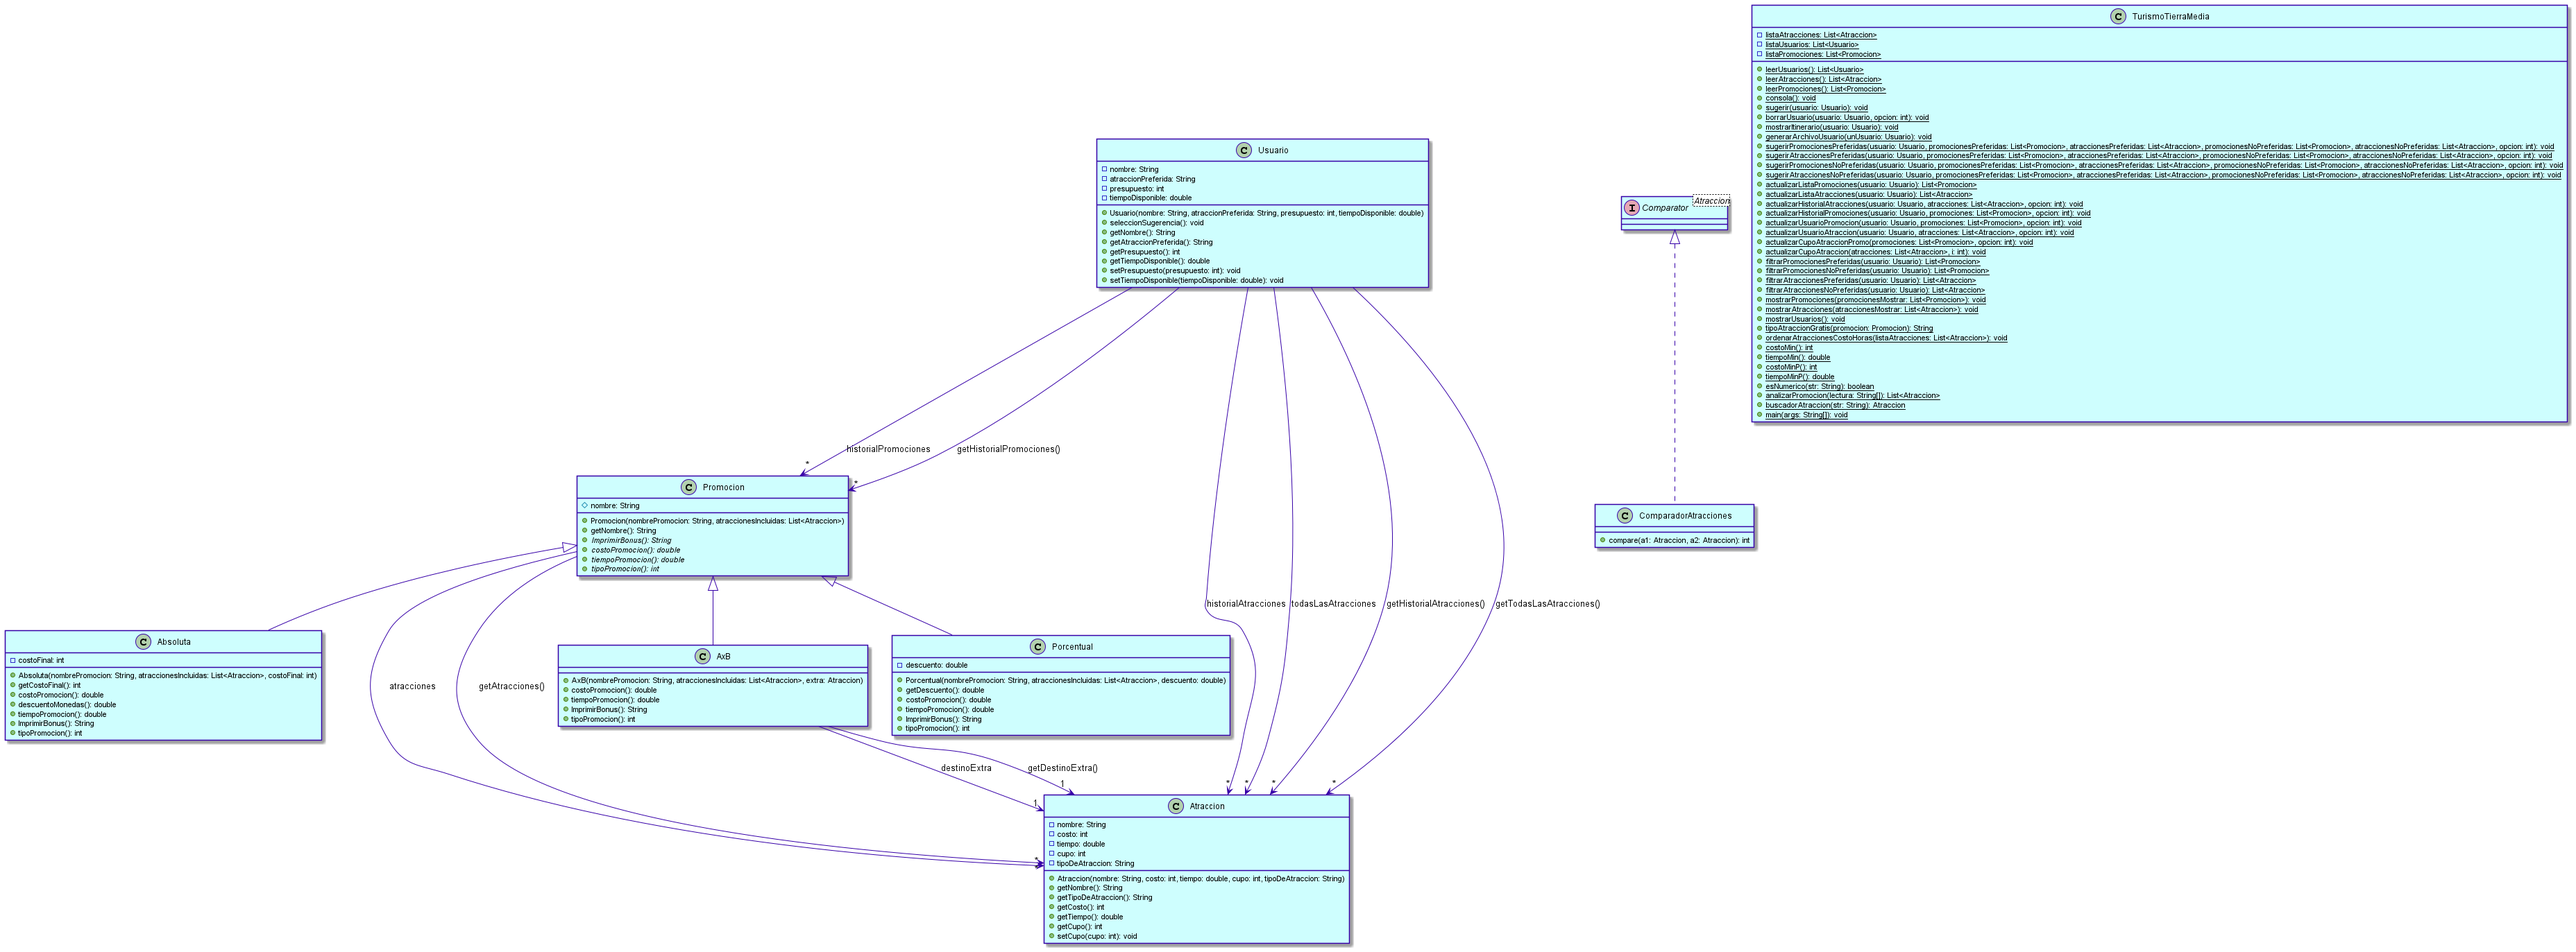
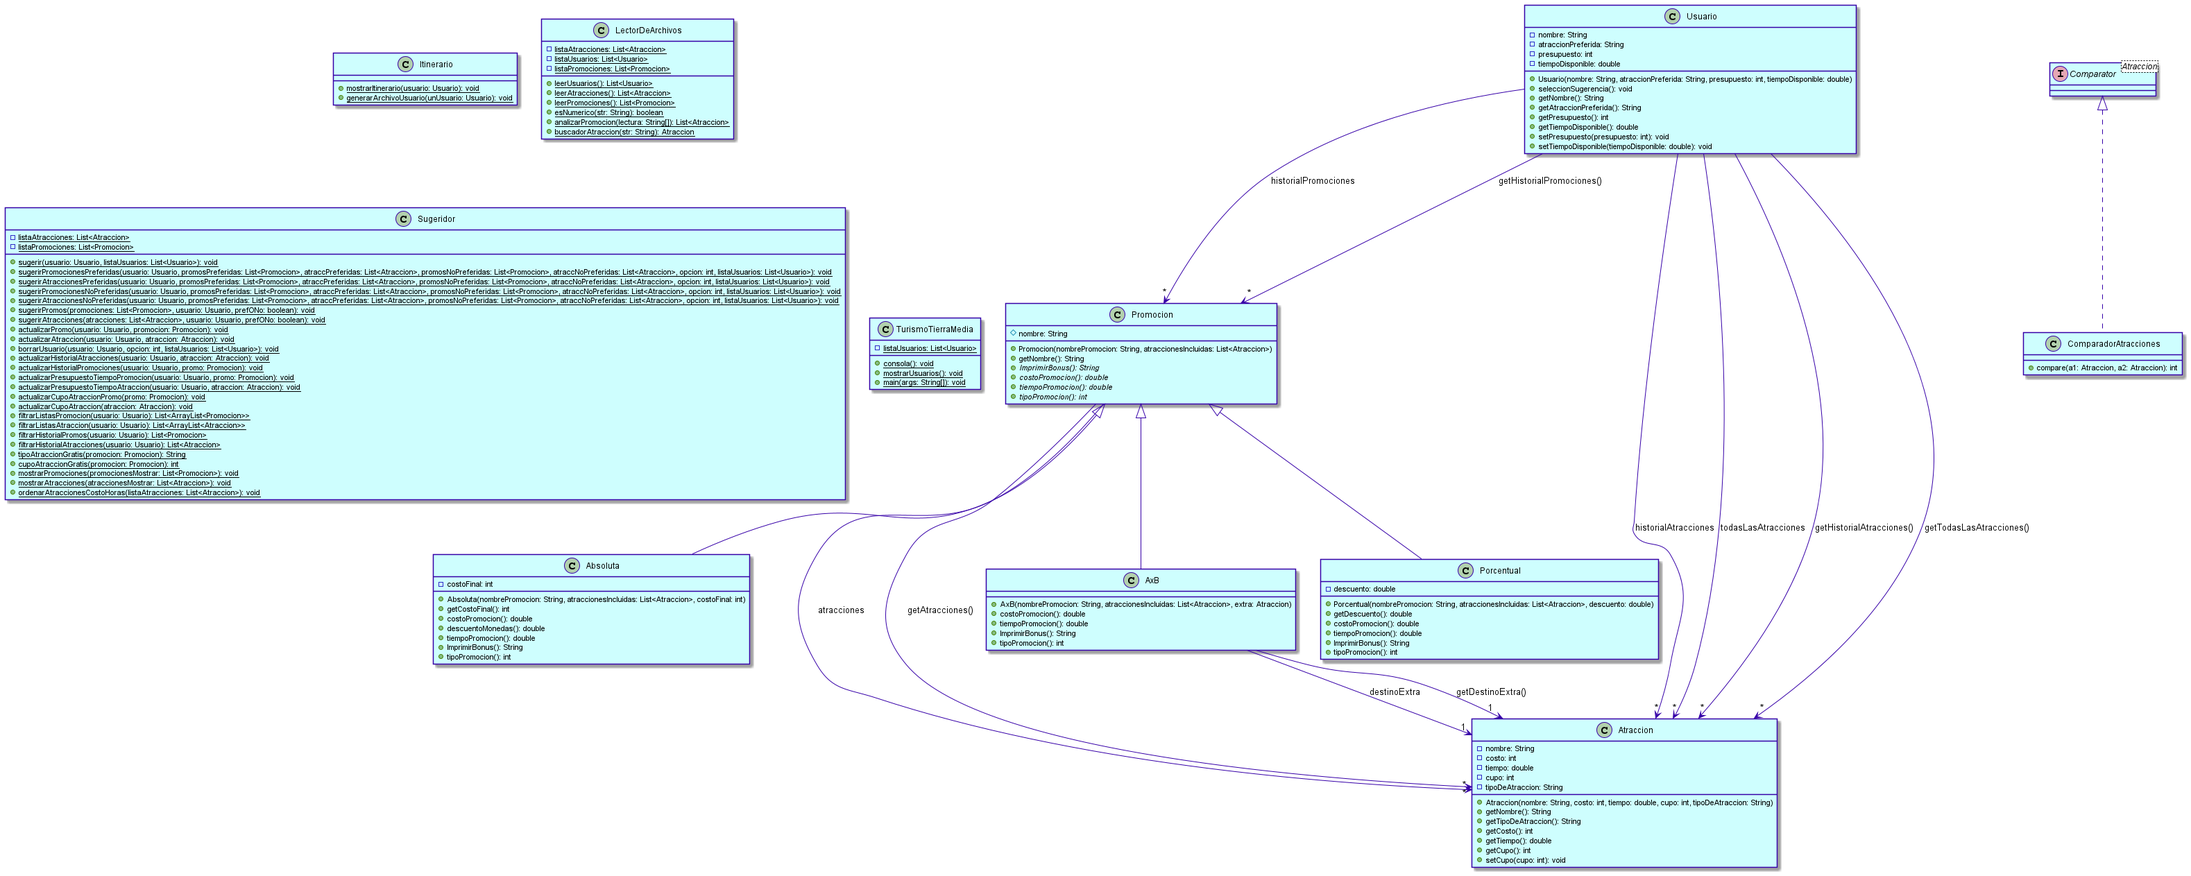
Tests

diff --git a/Test/turismo_tierra_media/TurismoTierraMediaTest.java b/Test/turismo_tierra_media/TurismoTierraMediaTest.java
@@ -19,9 +19,9 @@ public class TurismoTierraMediaTest {
 	@Before
 	public void setUp() {
 		
-		listaUsuarios=TurismoTierraMedia.leerUsuarios();
-		listaAtracciones = TurismoTierraMedia.leerAtracciones();
-		listaPromociones = TurismoTierraMedia.leerPromociones();
+		listaUsuarios=LectorDeArchivos.leerUsuarios();
+		listaAtracciones = LectorDeArchivos.leerAtracciones();
+		listaPromociones = LectorDeArchivos.leerPromociones();
 		
 	}
 	
@@ -40,20 +40,11 @@ public class TurismoTierraMediaTest {
 		assertNotNull(listaAtracciones);;
 	}
 	
-	@Test
-	public void testcostoMinimoAtraccion() {//el costo minimo de las atracciones es 3.
-		assertEquals(3, TurismoTierraMedia.costoMin(), 0);
-	}
-	
-	@Test
-	public void testtiempoMinimoAtraccion() {//el tiempo minimo de las atracciones es 1.
-		assertEquals(1, TurismoTierraMedia.tiempoMin(), 0);
-	}
-	
+
 	
 	@Test
 	public void testbuscadorAtraccion() {//busca la atraccion y de paso pregunta su tiempo para saber que esta trayendo el objeto
-		prueba = TurismoTierraMedia.buscadorAtraccion("La Comarca");
+		prueba = LectorDeArchivos.buscadorAtraccion("La Comarca");
 		Assert.assertEquals("La Comarca",prueba.getNombre());
 		Assert.assertEquals(6.5,prueba.getTiempo(),0);
 		
@@ -63,17 +54,16 @@ public class TurismoTierraMediaTest {
 	public void testOrdenarAtraccionesPorCostoHoras() {
 		List<Atraccion> listaCopia;
 		listaCopia = new ArrayList<>(listaAtracciones);
-		TurismoTierraMedia.ordenarAtraccionesCostoHoras(listaCopia);
+		Sugeridor.ordenarAtraccionesCostoHoras(listaCopia);
 		Assert.assertNotEquals(listaAtracciones, listaCopia);
 		
 	}
 	
 	@Test
-	public void actualizarCupoAtraccion() {//recibe una lista de atraccion y le resta 1 a su cupo
-		List<Atraccion> listaCopia;
-		listaCopia = new ArrayList<>(listaAtracciones);
-		TurismoTierraMedia.actualizarCupoAtraccion(listaCopia, 2);
-		Assert.assertNotEquals(150, listaCopia.get(2).getCupo());
+	public void actualizarCupoAtraccion() {//recibe una atraccion y le resta 1 a su cupo
+		Atraccion atraccion = listaAtracciones.get(2);
+		Sugeridor.actualizarCupoAtraccion(atraccion);
+		Assert.assertNotEquals(150, atraccion.getCupo());
 		
 	}
 
